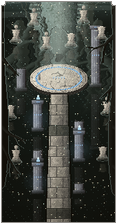
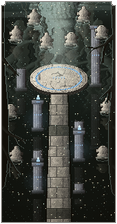
Práh: socha Lumiry s korunou z větví a objemem, klečící Lumenci s rameny, lokty a chodidly
Claude-Session: https://claude.ai/code/session_01DEnSwqHYg5ekKXqGuApBa4

diff --git a/tools/mapgen/gen_threshold.py b/tools/mapgen/gen_threshold.py
@@ -139,55 +139,82 @@ for y in range(TH["top"] + 26, TH["seat"] - 10, 6):
 FIG = np.zeros((AH, AW), bool)
 
 
-def fig_hw(y):
-    """Poloviční šířka siluety sochy v řádku y (kápě → ramena → široký plášť dolů)."""
-    if y < 126:
+def fig_hw(y, u=0.0):
+    """Poloviční šířka siluety sochy v řádku y: kápě se špičkou → ramena → paže → klín a kolena → plášť přes stupně."""
+    if y < 124:
         return 0
     if y < 154:
-        return 10.5 * math.sqrt(max(0.0, 1 - ((y - 141) / 15) ** 2)) * (0.8 + 0.2 * min(1.0, (y - 126) / 5))
-    if y < 168:
-        return 9.5 + (y - 154) * 0.95
-    return 22.8 + (y - 168) * 0.06
+        return 10.5 * math.sqrt(max(0.0, 1 - ((y - 140) / 16) ** 2)) * (0.55 + 0.45 * min(1.0, (y - 124) / 8))
+    if y < 170:
+        return 9.5 + math.sqrt((y - 154) / 16) * 12.5
+    if y < 192:
+        return 22.0
+    if y < 206:
+        return 22.0 + (y - 192) * 0.15
+    return 24.0 + (y - 206) * 0.25 + math.sin(u * 0.5 + y * 0.3) * 1.2       # zvlněný lem pláště
 
 
-SLEEVES = [bez((CX + sd * 17, 166), (CX + sd * 15, 186), (CX + sd * 3, 195), 30) for sd in (-1, 1)]
-for y in range(126, 230):
-    hw = fig_hw(y)
-    for x in range(int(CX - hw) - 1, int(CX + hw) + 2):
+for y in range(122, 234):
+    for x in range(CX - 34, CX + 35):
         u = x - CX
+        hw = fig_hw(y, u)
         if abs(u) > hw:
             continue
         FIG[y, x] = True
         q = u / max(1.0, hw)
-        v = 0.8 - q * 0.36 - 0.12 * abs(q) ** 4 - (y - 126) * 0.0015
-        if y > 172 and math.sin(u * 1.25 + (y - 150) * 0.05) > 0.86:
-            v -= 0.13                                                     # svislé záhyby pláště
-        if y < 154 and (u / 5.5) ** 2 + ((y - 148) / 6.5) ** 2 < 1:
-            v = 0.05 + max(0.0, (y - 146) / 60)                            # tma v kápi – obličej skloněný
-        if 197 <= y < 205 and abs(u) < 19:
-            v += 0.08                                                     # kolena pod látkou
-        img[y, x, :3] = st(v + (_vn(x, y, 8, 3) - 0.5) * 0.07, x, y)
-for pts in SLEEVES:                                                       # rukávy: švy od ramen k sepjatým dlaním
-    for (x, y) in pts:
-        img[int(y), int(x), :3] = st(0.18, int(x), int(y))
-        img[int(y) - 1, int(x) + (1 if x < CX else -1), :3] = st(0.88, int(x), int(y))
-for y in range(191, 199):                                                 # sepjaté dlaně v klíně
+        v = 0.76 - q * 0.5 - 0.16 * abs(q) ** 4                           # světlo zleva shora, pravý bok ve stínu
+        if y < 154:                                                       # kápě
+            v += 0.04
+            if (u / 5.6) ** 2 + ((y - 146) / 6.8) ** 2 < 1:
+                v = 0.04 + max(0.0, (y - 144) / 70)                        # tma v kápi – obličej nevytesaný
+                if (u + 6) ** 2 / 2 + ((y - 145) / 6) ** 2 < 1:
+                    v = 0.5                                                # osvětlený okraj kápě vlevo
+        elif y < 192:                                                     # ramena a paže v rukávech
+            ac = 16 - (y - 166) / 26 * 9 if y >= 166 else 16
+            d = abs(abs(u) - ac)
+            if y >= 166 and d < 1.0:
+                v = 0.2                                                    # šev rukávu
+            elif y >= 166 and abs(u) < ac and abs(u) > ac - 3:
+                v -= 0.22                                                  # stín mezi paží a tělem
+            elif y >= 166 and abs(u) > ac:
+                v += 0.05 - (abs(u) - ac) * 0.015                          # rukáv
+        elif y < 206:                                                     # klín a kolena
+            for kx in (-9, 9):
+                if ((u - kx) / 7.5) ** 2 + ((y - 197) / 4.5) ** 2 < 1:
+                    v += 0.14
+            if y >= 203:
+                v -= 0.22                                                  # stín pod koleny
+        else:                                                             # plášť padá přes stupně v záhybech
+            f = math.sin(u * 0.95 + (y - 206) * 0.12)
+            v += f * 0.12
+            if abs(f) > 0.94:
+                v -= 0.15
+            if y > 228:
+                v -= 0.2                                                   # lem ve stínu
+        img[y, x, :3] = st(v + (_vn(x, y, 8, 3) - 0.5) * 0.06, x, y)
+for (fx_, fy_) in ((CX - 9, 230), (CX + 9, 230)):                         # špičky chodidel zpod lemu
+    for y in range(fy_, fy_ + 3):
+        for x in range(fx_ - 3, fx_ + 3):
+            img[y, x, :3] = st(0.78 - (x - fx_) * 0.06, x, y)
+for y in range(189, 198):                                                 # sepjaté dlaně a v nich semínko (Srdce)
     for x in range(CX - 6, CX + 7):
-        if ((x - CX) / 5.5) ** 2 + ((y - 195) / 3.4) ** 2 < 1:
-            img[y, x, :3] = st(0.92 - (x - CX) * 0.03 - (y - 192) * 0.04, x, y)
-for y in range(150, 168):                                                 # okraj kápě přes ramena
-    hw = fig_hw(y)
-    for sd in (-1, 1):
-        x = int(CX + sd * (hw - 2))
-        img[y, x, :3] = st(0.3, x, y)
-for y in range(126, 230):                                                 # obrys sochy proti trůnu
-    for x in range(CX - 30, CX + 31):
+        if ((x - CX) / 6) ** 2 + ((y - 193) / 3.6) ** 2 < 1:
+            img[y, x, :3] = st(0.92 - (x - CX) * 0.035 - (y - 190) * 0.03, x, y)
+for (x, y, col) in ((CX, 192, (170, 255, 210)), (CX - 1, 192, (120, 220, 170)), (CX, 191, (120, 220, 170)), (CX + 1, 192, (90, 180, 140))):
+    img[y, x, :3] = col
+for y in range(122, 234):                                                 # obrys sochy proti trůnu
+    for x in range(CX - 35, CX + 36):
         if not FIG[y, x] and (FIG[y, x - 1] or FIG[y, x + 1] or FIG[y - 1, x]):
             img[y, x, :3] = st(0.1, x, y)
-for y in range(198, 230):                                                 # mech v záhybech dole
-    for x in range(CX - 30, CX + 30):
-        if FIG[y, x] and _vn(x * 1.6, y * 1.6, 9, 3) > 0.78:
+for y in range(200, 234):                                                 # mech v záhybech dole
+    for x in range(CX - 34, CX + 34):
+        if FIG[y, x] and _vn(x * 1.6, y * 1.6, 9, 3) > 0.8:
             img[y, x, :3] = np.clip(img[y, x, :3] * 0.55 + F([60, 96, 70]) * 0.45, 0, 255)
+# koruna z větviček, která jí vyrostla kolem kápě (je to strom)
+crown = TreePainter(img, lambda x, y: (np.clip(void(x, y), 0, 255), 0.0), seed=11)
+for a_ in (-2.5, -2.05, -1.57, -1.1, -0.65):
+    crown.branch(CX + math.cos(a_) * 9, 134 + math.sin(a_) * 8, a_, 1.1, 9, 3, a_, spread=(0.4, 0.8), maxdepth=6, pull=0.0)
+crown.composite(dark=(120, 116, 106), light=(236, 230, 214))
 over = TreePainter(img, lambda x, y: (np.clip(void(x, y), 0, 255), 0.05), seed=3)
 bough(over, chain((CX - 40, 120), (CX - 24, 150), (CX - 14, 176), (CX - 30, WB)), 3.4, 2.4, twigs=2)
 bough(over, chain((CX + 44, 160), (CX + 30, 200), (CX + 40, WB + 2)), 3.0, 2.2, twigs=1)
@@ -333,31 +360,56 @@ for _ in range(90):
 
 
 def kneeler(headless=False, seed=0):
-    """Klečící Lumenec zezadu (čelem k trůnu): malá hlava, ramena, záda se zužují do pasu, plášť se rozkládá kolem kolen."""
-    s = Spr(18, 26)
-    for y in range(26):
-        for x in range(18):
-            u = x - 9
-            v = None
-            if y < 7:
-                if not headless and (u / 2.8) ** 2 + ((y - 3.5) / 3.2) ** 2 < 1:
-                    v = 0.55 - u * 0.05 - (0.15 if y > 4 else 0)
-            elif y == 7:
-                if abs(u) < (1.5 if not headless else 2.5):
-                    v = 0.3 if not headless else 0.85                      # krk / hladký řez
-            elif y < 17:
-                hw = 6.2 - (y - 8) * 0.25
-                if abs(u) < hw:
-                    v = 0.56 - u / (hw * 2) * 0.4 - (0.2 if abs(u) > hw - 1.2 else 0)
-                    if abs(u) < 0.8 and y > 9:
-                        v -= 0.12                                          # páteř
-            else:
-                hw = 4 + (y - 17) * 0.6
-                if abs(u) < hw:
-                    v = 0.46 - u / (hw * 2) * 0.35 + 0.06 * math.sin(u * 1.4)
-            if v is not None:
-                col = st(v + (_vn(x, y, seed, 3) - 0.5) * 0.1, x, y)
-                s.px(x, y, (int(col[0]), int(col[1]), int(col[2]), 255))
+    """Klečící Lumenec zezadu (čelem k trůnu): hlava v kápi skloněná mezi zaoblená ramena, záda ohnutá v modlitbě,
+    lokty do stran (ruce sepjaté vpředu), sedí na patách – zpod pláště koukají chodidla, plášť se rozlévá do vody."""
+    s = Spr(22, 28)
+    cx_ = 11
+    E = [(cx_, 6.5, 3.0, 3.3, 'h'), (cx_, 13.5, 7.2, 6.2, 't'), (cx_, 20.5, 8.2, 4.6, 'p'), (cx_, 24.5, 10.2, 2.6, 'c'),
+         (cx_ - 7.6, 14.5, 2.0, 2.4, 'e'), (cx_ + 7.6, 14.5, 2.0, 2.4, 'e')]
+    for y in range(28):
+        for x in range(22):
+            part = None
+            for (ex, ey, rx, ry, k) in E:
+                if ((x - ex) / rx) ** 2 + ((y - ey) / ry) ** 2 < 1:
+                    part = k
+                    break
+            if part is None or (headless and part == 'h'):
+                continue
+            ex, ey, rx, ry, _ = next(e for e in E if e[4] == part)
+            q = (x - ex) / rx
+            r_ = (y - ey) / ry
+            v = 0.46 - q * 0.34 - r_ * 0.08 - 0.12 * max(0.0, (q * q + r_ * r_) - 0.6)   # objem: světlo zleva shora
+            if part == 't' and abs(x - cx_) < 0.8 and y > 10:
+                v -= 0.12                                                  # páteř pod látkou
+            if part == 'h':
+                v += 0.05
+            if part in 'pc' and abs(math.sin((x - cx_) * 1.2 + y * 0.25)) > 0.9:
+                v -= 0.1                                                   # záhyby pláště
+            col = st(v + (_vn(x, y, seed, 3) - 0.5) * 0.07, x, y)
+            s.px(x, y, (int(col[0]), int(col[1]), int(col[2]), 255))
+    for (fx_, fy_) in ((cx_ - 4, 25), (cx_ + 4, 25)):                     # chodidla (paty nahoru) – klečí
+        for y in range(fy_ - 1, fy_ + 2):
+            for x in range(fx_ - 1, fx_ + 2):
+                if abs(x - fx_) + abs(y - fy_) < 2:
+                    col = st(0.66 if y < fy_ + 1 else 0.4, x, y)
+                    s.px(x, y, (int(col[0]), int(col[1]), int(col[2]), 255))
+    if headless:
+        for x in range(cx_ - 2, cx_ + 3):                                  # hladký řez krku
+            col = st(0.82, x, 8)
+            s.px(x, 8, (int(col[0]), int(col[1]), int(col[2]), 255))
+    for x in range(cx_ - 6, cx_ + 7):                                      # stín mezi hlavou a rameny
+        if s.a[9, x, 3] and not headless and abs(x - cx_) > 2:
+            s.a[9, x, :3] = (s.a[9, x, :3] * 0.7).astype(s.a.dtype)
+    return selout_k(s)
+
+
+def selout_k(s):
+    """Tmavý obrys podle sousedství (sochy se nesmí slít s vodou)."""
+    a = s.a.copy()
+    for y in range(s.h):
+        for x in range(s.w):
+            if not a[y, x, 3] and any(0 <= y + dy < s.h and 0 <= x + dx < s.w and a[y + dy, x + dx, 3] for dy, dx in ((0, 1), (0, -1), (-1, 0))):
+                s.a[y, x] = (24, 26, 30, 255)
     return s
 
 
@@ -368,11 +420,11 @@ for i, (x, y, hl) in enumerate(KNEEL):
     for yy in range(k.h):
         for xx in range(k.w):
             if k.a[yy, xx, 3]:
-                X, Y = x - 9 + xx, y - 26 + yy
-                sub = max(0.0, (yy - 19) / 7)                              # spodek pod hladinou
+                X, Y = x - 11 + xx, y - 28 + yy
+                sub = max(0.0, (yy - 21) / 7)                              # spodek pod hladinou
                 img[Y, X, :3] = np.clip(k.a[yy, xx, :3] * (1 - sub * 0.75) + img[Y, X, :3] * sub * 0.75, 0, 255)
                 Ym = y + (y - Y) - 2                                       # odraz postavy ve vodě
-                if 0 <= Ym < AH and yy < 19:
+                if 0 <= Ym < AH and yy < 21:
                     img[Ym, X, :3] = np.clip(img[Ym, X, :3] * 0.7 + k.a[yy, xx, :3] * 0.15, 0, 255)
     ring(x, y - 1, 9, 0.3)
     block[y - 4:y, x - 6:x + 6] = True
